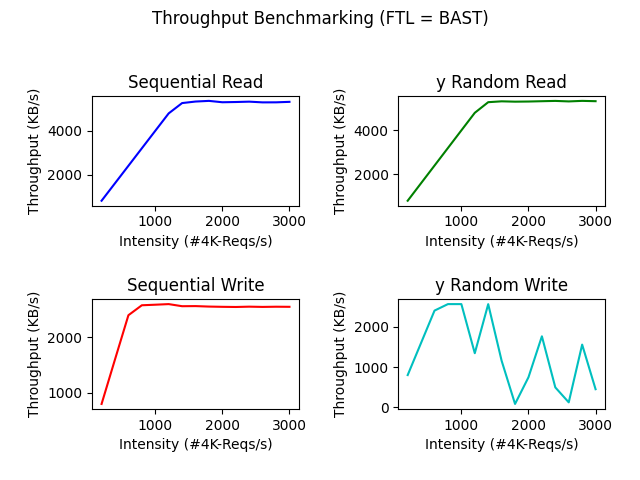
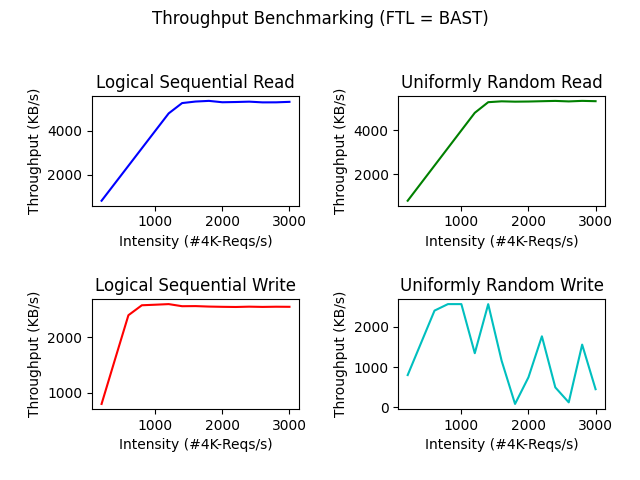
Minor fixes

diff --git a/benchmark/plot.py b/benchmark/plot.py
@@ -16,7 +16,7 @@ with open("results.txt") as fres:
     for line in fres.readlines():
         line = line.strip()
         if line.startswith("Benchmark"):
-            cur_bench = line[20:line.find(':')]
+            cur_bench = line[12:line.find(':')]
             intensities[cur_bench] = []
             throughputs[cur_bench] = []
         elif cur_bench is not None \
